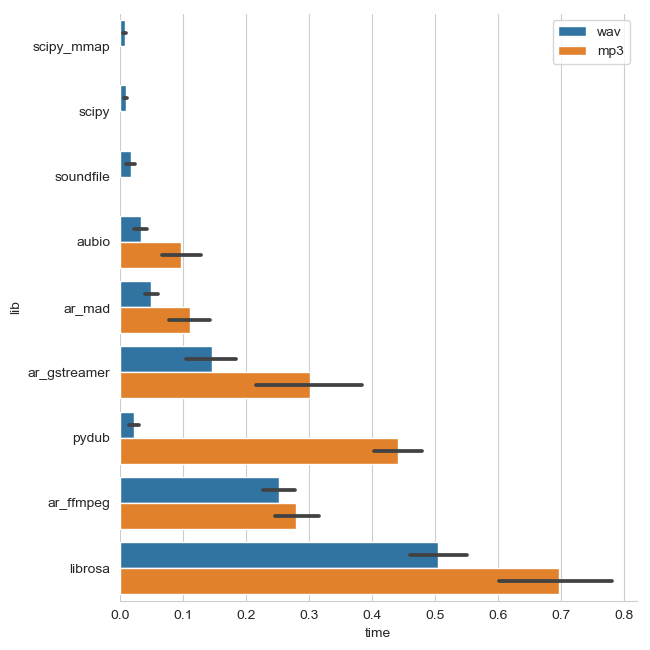
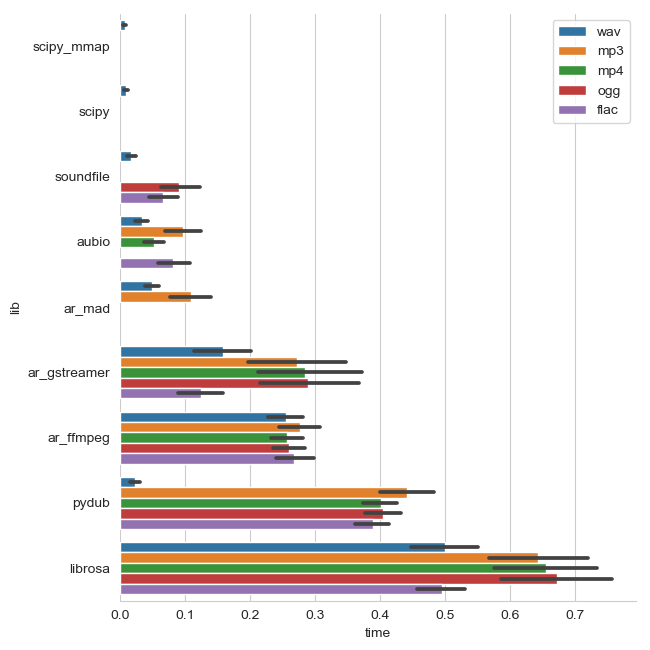
add results for other codecs

diff --git a/plot.py b/plot.py
@@ -6,7 +6,7 @@ import matplotlib.pyplot as plt
 for package in ['pytorch', 'tf', 'np']:
     dfs = []
     for ext in ["wav", "mp3", "mp4", "ogg", "flac"]:
-        dfs.append(pd.read_pickle("results/benchmark_%s_%ext.pickle" % (package, ext)))
+        dfs.append(pd.read_pickle("results/benchmark_%s_%s.pickle" % (package, ext)))
 
     df = pd.concat(dfs, ignore_index=True)
 

diff --git a/benchmark_pytorch.py b/benchmark_pytorch.py
@@ -72,8 +72,10 @@ if __name__ == "__main__":
         'librosa', 
         'scipy',
         'scipy_mmap',
-        'torchaudio'
     ]
+
+    if args.ext != "mp4":
+        libs.append('torchaudio')
 
     for lib in libs:
         print("Testing: %s" % lib)
